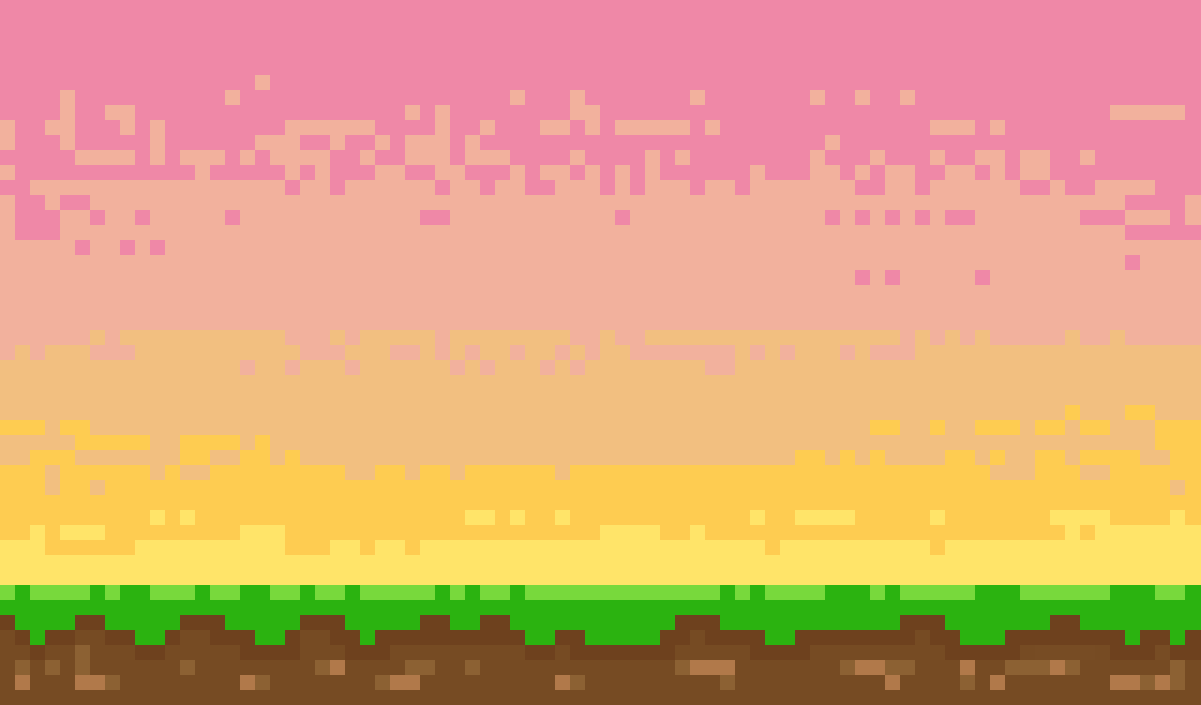
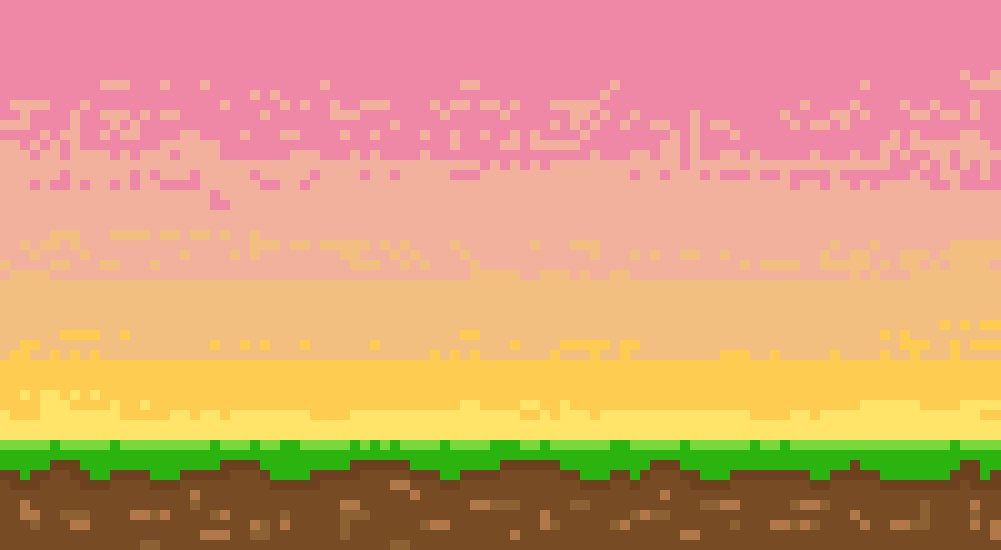
game

diff --git a/sketch/sketch.js b/sketch/sketch.js
@@ -31,7 +31,7 @@ function preload(){
   b2Img = loadImage('https://thao-nguyen-design.github.io/sketch/background2.png');
 }
 function setup() {
-  createCanvas(1200, 700);
+  createCanvas(1000, 550);
   textSize(24);
   resetSketch();
 }
